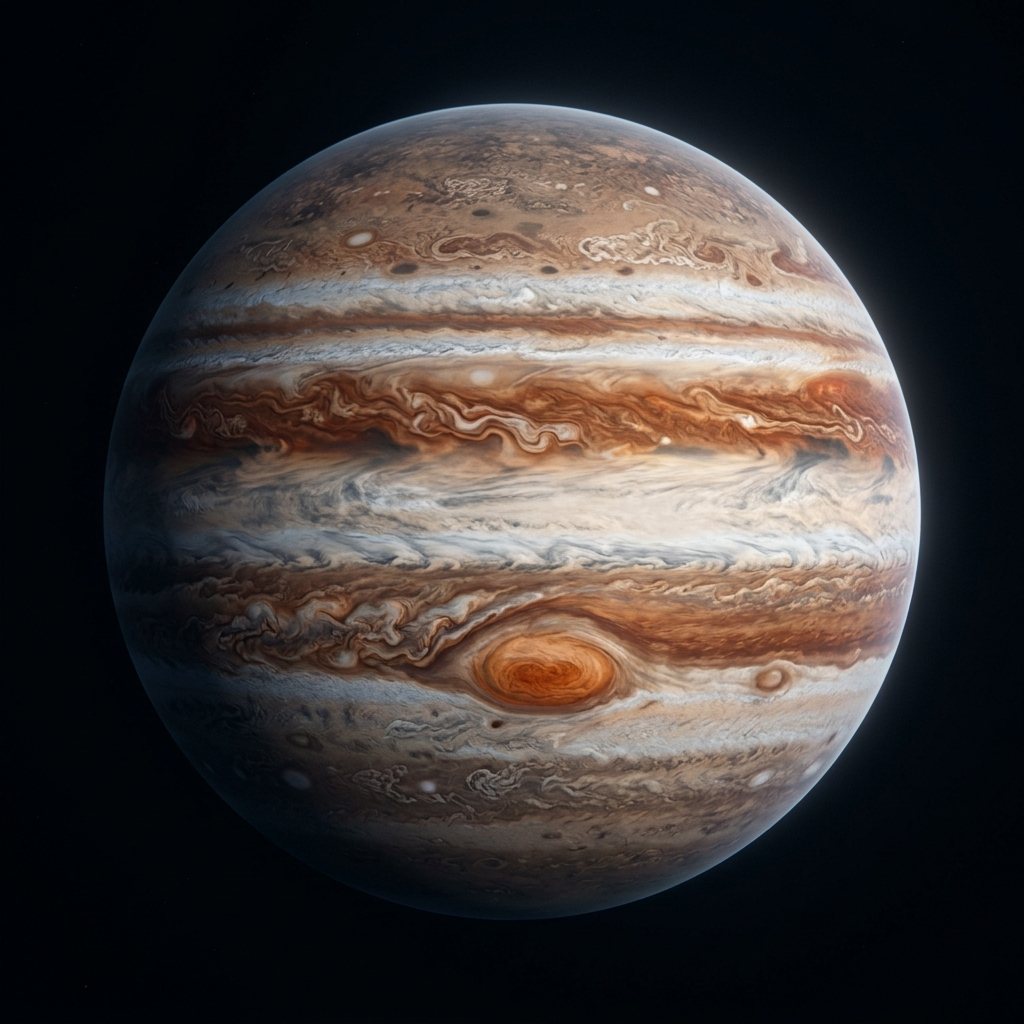
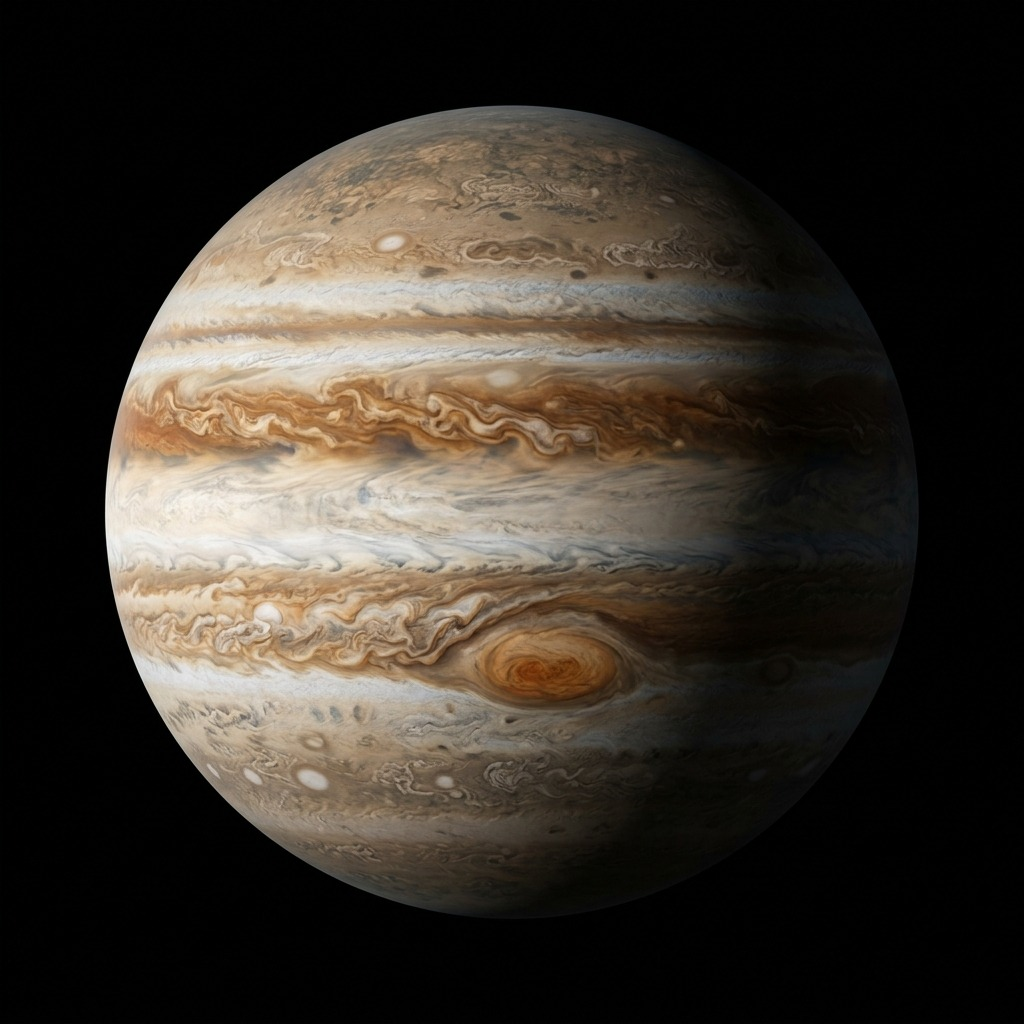
feat(home): integrate ultra-high-res Google Flow planet visuals with 3D hyperspace transitions

diff --git a/src/components/experience/PlanetServicesExperience.react.tsx b/src/components/experience/PlanetServicesExperience.react.tsx
@@ -20,15 +20,7 @@ import {
   RotateCcw
 } from 'lucide-react';
 import brandConfig from '../../config/brand';
-import {
-  createMercuryTexture,
-  createMarsTexture,
-  createSaturnTexture,
-  createUranusTexture,
-  createNeptuneTexture,
-  createSaturnRingTexture,
-  createGlowParticleTexture
-} from './shaders/planetShaders';
+import { createGlowParticleTexture } from './shaders/planetShaders';
 
 export interface PlanetStage {
   id: string;
@@ -177,8 +169,8 @@ export const planetServicesData: PlanetStage[] = [
     ctaLabel: 'Yemek Platformu Hizmetini İncele',
     href: '/hizmetler/yemeksepeti-trendyol-yemek/',
     accentColor: '#06b6d4',
-    texture: '/images/planets/neptune.jpg',
-    fallbackImage: '/images/planets/neptune.jpg'
+    texture: '/images/planets/uranus.jpg',
+    fallbackImage: '/images/planets/uranus.jpg'
   },
   {
     id: 'neptune',
@@ -251,8 +243,6 @@ export const PlanetServicesExperience: React.FC = () => {
   const texturesRef = useRef<THREE.Texture[]>([]);
   const currentPlanetMeshRef = useRef<THREE.Mesh | null>(null);
   const nextPlanetMeshRef = useRef<THREE.Mesh | null>(null);
-  const currentRingMeshRef = useRef<THREE.Mesh | null>(null);
-  const nextRingMeshRef = useRef<THREE.Mesh | null>(null);
   const starfieldPointsRef = useRef<THREE.Points | null>(null);
   const cameraRef = useRef<THREE.PerspectiveCamera | null>(null);
 
@@ -311,19 +301,11 @@ export const PlanetServicesExperience: React.FC = () => {
       const fromTex = texturesRef.current[fromPlanetIdx] || texturesRef.current[0];
       const toTex = texturesRef.current[toPlanetIdx] || texturesRef.current[0];
 
-      (currentPlanetMeshRef.current.material as THREE.MeshStandardMaterial).map = fromTex;
-      (currentPlanetMeshRef.current.material as THREE.MeshStandardMaterial).needsUpdate = true;
+      (currentPlanetMeshRef.current.material as THREE.MeshBasicMaterial).map = fromTex;
+      (currentPlanetMeshRef.current.material as THREE.MeshBasicMaterial).needsUpdate = true;
 
-      (nextPlanetMeshRef.current.material as THREE.MeshStandardMaterial).map = toTex;
-      (nextPlanetMeshRef.current.material as THREE.MeshStandardMaterial).needsUpdate = true;
-
-      // Handle Saturn Rings for current and next
-      if (currentRingMeshRef.current) {
-        currentRingMeshRef.current.visible = fromPlanetIdx === 5;
-      }
-      if (nextRingMeshRef.current) {
-        nextRingMeshRef.current.visible = toPlanetIdx === 5;
-      }
+      (nextPlanetMeshRef.current.material as THREE.MeshBasicMaterial).map = toTex;
+      (nextPlanetMeshRef.current.material as THREE.MeshBasicMaterial).needsUpdate = true;
     }
 
     transitionAnimRef.current = {
@@ -350,18 +332,12 @@ export const PlanetServicesExperience: React.FC = () => {
 
           if (currentPlanetMeshRef.current && texturesRef.current.length > 0) {
             const finalTex = texturesRef.current[toPlanetIdx] || texturesRef.current[0];
-            (currentPlanetMeshRef.current.material as THREE.MeshStandardMaterial).map = finalTex;
-            (currentPlanetMeshRef.current.material as THREE.MeshStandardMaterial).opacity = 1.0;
-            (currentPlanetMeshRef.current.material as THREE.MeshStandardMaterial).needsUpdate = true;
-          }
-          if (currentRingMeshRef.current) {
-            currentRingMeshRef.current.visible = toPlanetIdx === 5;
+            (currentPlanetMeshRef.current.material as THREE.MeshBasicMaterial).map = finalTex;
+            (currentPlanetMeshRef.current.material as THREE.MeshBasicMaterial).opacity = 1.0;
+            (currentPlanetMeshRef.current.material as THREE.MeshBasicMaterial).needsUpdate = true;
           }
           if (nextPlanetMeshRef.current) {
             nextPlanetMeshRef.current.visible = false;
-          }
-          if (nextRingMeshRef.current) {
-            nextRingMeshRef.current.visible = false;
           }
         } finally {
           transitionAnimRef.current = null;
@@ -522,76 +498,40 @@ export const PlanetServicesExperience: React.FC = () => {
     const textures: THREE.Texture[] = [];
 
     planetServicesData.forEach((stage) => {
-      let tex: THREE.Texture;
-      if (stage.id === 'mercury') {
-        tex = createMercuryTexture();
-      } else if (stage.id === 'mars') {
-        tex = createMarsTexture();
-      } else if (stage.id === 'saturn') {
-        tex = createSaturnTexture();
-      } else if (stage.id === 'uranus') {
-        tex = createUranusTexture();
-      } else if (stage.id === 'neptune') {
-        tex = createNeptuneTexture();
-      } else {
-        tex = textureLoader.load(stage.texture);
-        tex.wrapS = THREE.RepeatWrapping;
-        tex.wrapT = THREE.ClampToEdgeWrapping;
-      }
+      const tex = textureLoader.load(stage.texture, () => {
+        if (currentPlanetMeshRef.current) {
+          (currentPlanetMeshRef.current.material as THREE.MeshBasicMaterial).needsUpdate = true;
+        }
+      });
+      tex.colorSpace = THREE.SRGBColorSpace;
       textures.push(tex);
     });
     texturesRef.current = textures;
 
-    const sphereGeo = new THREE.SphereGeometry(1.85, 64, 64);
+    const planeGeo = new THREE.PlaneGeometry(4.2, 4.2);
 
-    // 1. Current Planet Mesh & Material
-    const currentMat = new THREE.MeshStandardMaterial({
+    // 1. Current Planet Mesh & Material (1:1 High Fidelity Google Flow Render)
+    const currentMat = new THREE.MeshBasicMaterial({
       map: textures[0] || null,
-      roughness: 0.65,
-      metalness: 0.05,
       transparent: true,
       opacity: 1.0,
+      depthWrite: false,
     });
-    const currentPlanetMesh = new THREE.Mesh(sphereGeo, currentMat);
+    const currentPlanetMesh = new THREE.Mesh(planeGeo, currentMat);
     currentPlanetMeshRef.current = currentPlanetMesh;
     scene.add(currentPlanetMesh);
 
-    // Saturn Ring for Current
-    const ringGeo = new THREE.RingGeometry(2.25, 3.6, 64);
-    const ringMat = new THREE.MeshStandardMaterial({
-      map: createSaturnRingTexture(),
-      side: THREE.DoubleSide,
-      transparent: true,
-      opacity: 0.95,
-      roughness: 0.7,
-    });
-    const currentRingMesh = new THREE.Mesh(ringGeo, ringMat);
-    currentRingMesh.rotation.x = Math.PI / 2.6;
-    currentRingMesh.rotation.y = 0.15;
-    currentRingMesh.visible = false;
-    currentRingMeshRef.current = currentRingMesh;
-    currentPlanetMesh.add(currentRingMesh);
-
-    // 2. Next Planet Mesh (Incoming from Hyperspace)
-    const nextMat = new THREE.MeshStandardMaterial({
+    // 2. Next Planet Mesh (Incoming from 3D Hyperspace)
+    const nextMat = new THREE.MeshBasicMaterial({
       map: textures[1] || null,
-      roughness: 0.65,
-      metalness: 0.05,
       transparent: true,
       opacity: 0.0,
+      depthWrite: false,
     });
-    const nextPlanetMesh = new THREE.Mesh(sphereGeo, nextMat);
+    const nextPlanetMesh = new THREE.Mesh(planeGeo, nextMat);
     nextPlanetMesh.visible = false;
     nextPlanetMeshRef.current = nextPlanetMesh;
     scene.add(nextPlanetMesh);
-
-    // Saturn Ring for Next
-    const nextRingMesh = new THREE.Mesh(ringGeo, ringMat.clone());
-    nextRingMesh.rotation.x = Math.PI / 2.6;
-    nextRingMesh.rotation.y = 0.15;
-    nextRingMesh.visible = false;
-    nextRingMeshRef.current = nextRingMesh;
-    nextPlanetMesh.add(nextRingMesh);
 
     // 3. Dynamic Warp Starfield (600 3D Star Particles)
     const starCount = 600;
@@ -650,9 +590,14 @@ export const PlanetServicesExperience: React.FC = () => {
       const restOffsetX = isDesktop ? 1.5 : 0.0;
       const anim = transitionAnimRef.current;
 
-      // Ambient Planet Rotation
-      currentPlanetMesh.rotation.y += dt * 0.15;
-      nextPlanetMesh.rotation.y += dt * 0.20;
+      // Ambient Planet Subtle Roll
+      currentPlanetMesh.rotation.x = 0;
+      currentPlanetMesh.rotation.y = 0;
+      currentPlanetMesh.rotation.z += dt * 0.03;
+
+      nextPlanetMesh.rotation.x = 0;
+      nextPlanetMesh.rotation.y = 0;
+      nextPlanetMesh.rotation.z += dt * 0.04;
 
       // Dynamic Starfield Warp Animation
       let warpSpeed = 0.03;

diff --git a/tests/e2e/planet-critical-bugfix.spec.ts b/tests/e2e/planet-critical-bugfix.spec.ts
@@ -236,7 +236,8 @@ test.describe('Rent Yazılım — Pure WebGL Fullscreen Planet Service Experienc
     const homeExp = page.locator('[data-testid="home-experience"]');
     await expect(homeExp).toBeVisible();
     await expect(homeExp).toHaveAttribute('data-active-index', '0');
-    await page.waitForTimeout(600);
+    await expect(homeExp).toHaveAttribute('data-transitioning', 'false');
+    await page.waitForTimeout(800);
 
     // Simulate pointer swipe up
     await page.evaluate(() => {
